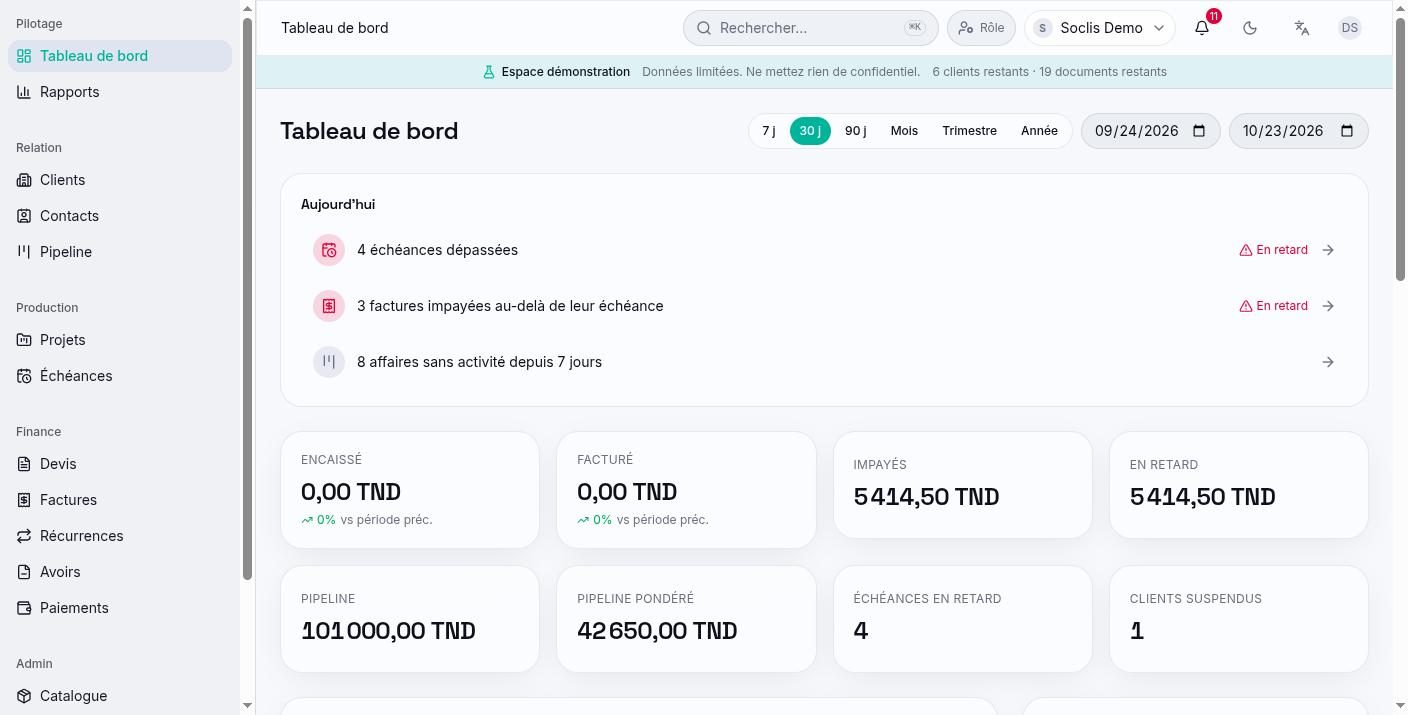
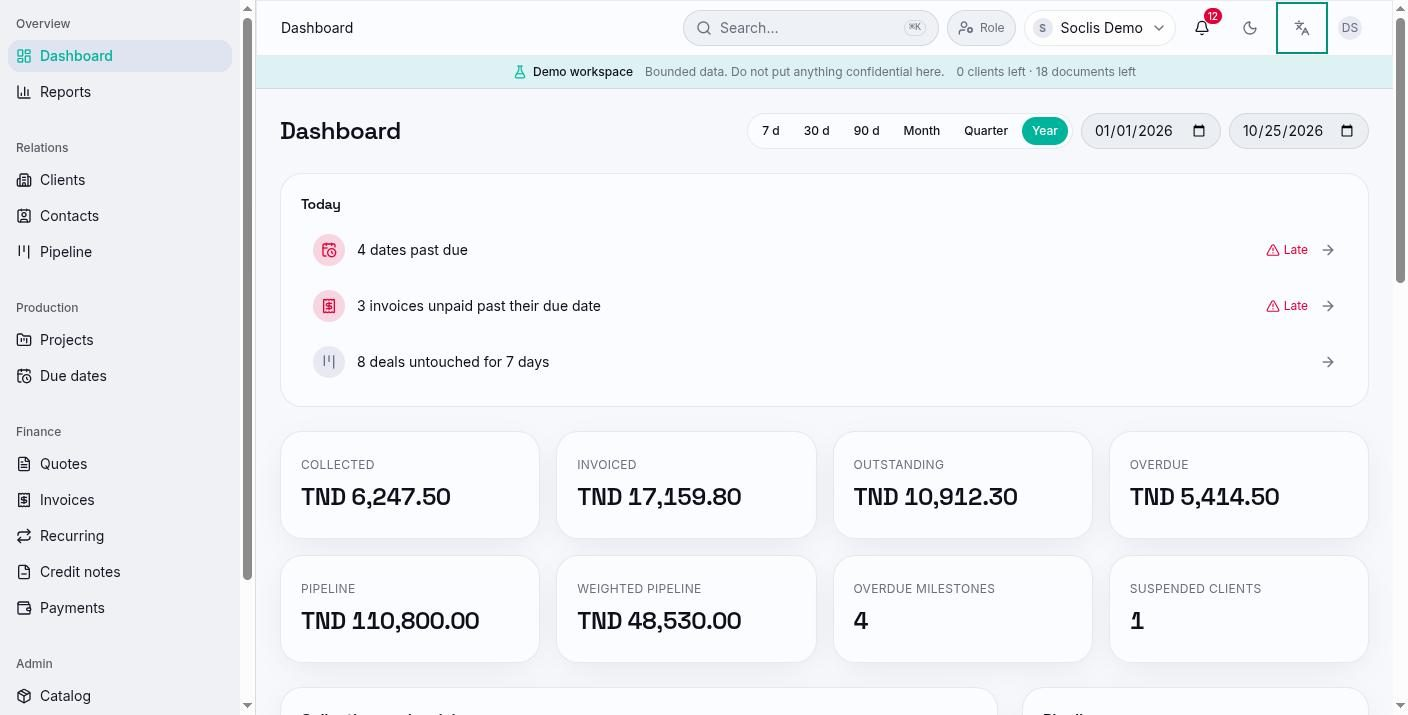
Deploy projects/soclis-crm

diff --git a/projects/soclis-crm/report/fr.html b/projects/soclis-crm/report/fr.html
@@ -62,7 +62,7 @@ figcaption { padding: 10px 14px; color: var(--muted); font-size: 14px; }
   <p class="tagline">Un CRM et outil de facturation pour les sociétés de services, qui suit chaque client du premier contact à la facture payée, en français, anglais et arabe.</p>
   <div class="facts"><div class="fact"><b>3</b><span>langues, dont l’arabe de droite à gauche</span></div><div class="fact"><b>6</b><span>rôles utilisateurs avec leurs propres droits</span></div><div class="fact"><b>3</b><span>offres : démo, starter et pro</span></div><div class="fact"><b>4</b><span>rapports détaillés avec export CSV</span></div></div>
   <nav class="toc"><h2>Sommaire</h2><ol><li><a href="#s1">En bref</a></li><li><a href="#s2">Pour qui</a></li><li><a href="#s3">Le problème résolu</a></li><li><a href="#s4">Fonctionnalités principales</a></li><li><a href="#s5">Fonctionnement</a></li><li><a href="#s6">Technologies</a></li><li><a href="#s7">Aperçu</a></li><li><a href="#s8">Ce que ça apporte</a></li></ol></nav>
-  <section class="text"><h2 id="s1">En bref</h2><p>SOCLIS CRM est une application web destinée aux sociétés de services : agences, intégrateurs, prestataires de maintenance. Elle réunit au même endroit les fiches clients, le pipeline commercial, les projets et échéances de maintenance, les devis, les factures, les avoirs et les paiements.</p><p>Plusieurs sociétés utilisent la même application, chacune avec ses données séparées. Une personne peut appartenir à plusieurs sociétés et y avoir un rôle différent. Les clients disposent de leur propre espace en lecture seule grâce à un lien sécurisé, sans créer de compte. L’interface fonctionne sur ordinateur et sur mobile, en français, anglais et arabe.</p></section><section><h2 id="s2">Pour qui</h2><div class="grid" style="--columns: 3"><div class="card"><h3>Dirigeants et administrateurs</h3><p>Renseignent l’identité de la société, la numérotation et les règles internes, invitent l’équipe et choisissent ce que chaque rôle peut faire.</p></div><div class="card"><h3>Équipes commerciales</h3><p>Gèrent leur propre portefeuille clients, suivent les opportunités sur un tableau de pipeline et préparent les devis.</p></div><div class="card"><h3>Équipes finance</h3><p>Émettent factures et avoirs, enregistrent les paiements, suivent les retards et consultent les rapports de chiffre d’affaires.</p></div><div class="card"><h3>Managers et lecteurs</h3><p>Suivent clients, projets et échéances, en lecture seule lorsque la facturation ne fait pas partie de leur travail.</p></div><div class="card"><h3>Clients finaux</h3><p>Ouvrent un lien personnel pour voir leur solde, télécharger factures et devis, et accepter ou refuser un devis en ligne.</p></div></div></section><section><h2 id="s3">Le problème résolu</h2><div class="grid" style="--columns: 2"><div class="card"><h3>Informations dispersées</h3><p>Coordonnées, devis, factures et paiements vivent souvent dans des tableurs et dossiers séparés. Ici, chaque client a une fiche unique qui relie l’ensemble.</p></div><div class="card"><h3>Échéances oubliées</h3><p>Contrats de maintenance et factures impayées s’oublient facilement. L’application suit les échéances, signale les retards et envoie des relances.</p></div><div class="card"><h3>Contrôle des accès</h3><p>Tout le monde n’a pas à voir les chiffres financiers. Chaque rôle ne voit et ne modifie que ce dont il a besoin, et chaque commercial peut être limité à ses propres clients.</p></div><div class="card"><h3>Langues et règles locales</h3><p>Équipes et clients travaillent en français, anglais ou arabe, et les documents reprennent les mentions locales : matricule fiscal, TVA, montants en dinars à trois décimales.</p></div></div></section><section><h2 id="s4">Fonctionnalités principales</h2><div class="list"><div class="card"><h3>Fiches clients</h3><p>Une page par client avec contacts, documents, projets, devis, factures, paiements, état de service et historique, ainsi qu’étiquettes, filtres enregistrés et import CSV.</p></div><div class="card"><h3>Pipeline commercial</h3><p>Un tableau d’opportunités par étape, en glisser-déposer, avec totaux et prévision pondérée, ainsi qu’une vue liste.</p></div><div class="card"><h3>Projets et maintenance</h3><p>Projets ponctuels ou contrats de maintenance avec budget, jalons et échéances récurrentes, en liste ou en calendrier mensuel.</p></div><div class="card"><h3>Devis</h3><p>Lignes issues d’un catalogue de services, remises et TVA, envoi par e-mail avec le PDF joint, et page en ligne où le client répond.</p></div><div class="card"><h3>Factures et avoirs</h3><p>Factures créées de zéro, depuis un devis accepté ou depuis un projet, factures récurrentes, et avoirs liés à la facture d’origine.</p></div><div class="card"><h3>Paiements</h3><p>Virement, chèque ou espèces, un paiement réparti sur plusieurs factures, et extourne avec motif en conservant l’historique.</p></div><div class="card"><h3>Espace client</h3><p>Un lien sécurisé, avec expiration et révocation, qui donne au client son solde, les consignes de règlement et ses documents à télécharger.</p></div><div class="card"><h3>Tableau de bord et rapports</h3><p>Un tableau de bord adapté au rôle, avec les priorités du jour et les chiffres clés, et des rapports sur le chiffre d’affaires, les clients, les projets et les échéances.</p></div><div class="card"><h3>Notifications et historique</h3><p>Alertes sur les échéances dépassées et les factures impayées, historique complet des modifications, corbeille avec annulation et recherche rapide par Ctrl+K.</p></div><div class="card"><h3>Offres et quotas</h3><p>Chaque société dispose d’une offre qui fixe des limites de clients, d’utilisateurs, de factures et de stockage, avec un espace de démonstration en un clic.</p></div></div></section><section><h2 id="s5">Fonctionnement</h2><div class="steps"><div class="step"><h3>Configurer la société</h3><p>Le propriétaire renseigne l’identité de la société et les paramètres de facturation, puis invite les membres de l’équipe avec un rôle.</p></div><div class="step"><h3>Ajouter clients et opportunités</h3><p>L’équipe crée ou importe ses clients et fait avancer chaque opportunité dans les étapes du pipeline.</p></div><div class="step"><h3>Chiffrer et obtenir une réponse</h3><p>Un devis est construit à partir du catalogue et envoyé au client, qui l’accepte ou le refuse depuis un lien.</p></div><div class="step"><h3>Réaliser et suivre</h3><p>Projets et échéances de maintenance sont suivis, avec des rappels avant et après chaque date.</p></div><div class="step"><h3>Facturer et encaisser</h3><p>La facture est créée depuis le devis ou le projet, envoyée en PDF dans la langue du client, puis les paiements y sont imputés.</p></div><div class="step"><h3>Analyser les résultats</h3><p>Les responsables consultent le tableau de bord et les rapports pour voir le chiffre d’affaires, les impayés et le travail à venir.</p></div></div></section><section><h2 id="s6">Technologies</h2><div class="tech-group"><h3>Interface</h3><div class="tech"><div><b>Next.js et React</b><span>Construisent l’application web, ses pages et les pages publiques destinées aux clients.</span></div><div><b>TypeScript</b><span>Utilisé côté interface et côté serveur pour un code cohérent et vérifié.</span></div><div><b>Tailwind CSS et Radix UI</b><span>Apportent le design visuel et des composants accessibles comme les menus et les fenêtres de dialogue.</span></div><div><b>TanStack Query et Zustand</b><span>Tiennent à jour à l’écran les données du serveur et conservent la session de l’utilisateur.</span></div><div><b>Recharts</b><span>Dessine les graphiques du tableau de bord.</span></div></div></div><div class="tech-group"><h3>Serveur et API</h3><div class="tech"><div><b>Node.js et Express</b><span>Servent l’API REST de l’application et appliquent les rôles, les périmètres de données et les quotas des offres.</span></div><div><b>Zod</b><span>Vérifie chaque formulaire et chaque requête pour n’enregistrer que des données valides.</span></div><div><b>node-cron</b><span>Lance les tâches quotidiennes : factures en retard, relances, échéances et factures récurrentes.</span></div><div><b>Nodemailer</b><span>Envoie par e-mail les invitations, les devis, les factures et les relances de paiement.</span></div></div></div><div class="tech-group"><h3>Données</h3><div class="tech"><div><b>MySQL</b><span>Stocke sociétés, clients, projets et documents de facturation, séparés par société.</span></div><div><b>Sequelize</b><span>Décrit le modèle de données et gère ses évolutions dans le temps.</span></div></div></div><div class="tech-group"><h3>Documents et langues</h3><div class="tech"><div><b>PDFKit</b><span>Génère devis, factures et avoirs en PDF, en français, anglais ou arabe.</span></div><div><b>next-intl</b><span>Traduit l’interface et passe à une mise en page de droite à gauche en arabe.</span></div></div></div><div class="tech-group"><h3>Qualité</h3><div class="tech"><div><b>Lanceur de tests Node</b><span>Exécute des tests unitaires et des tests sur base réelle pour les quotas, la facturation, les droits et la séparation des données.</span></div><div><b>ESLint</b><span>Contrôle le style du code et les erreurs courantes.</span></div></div></div></section><section><h2 id="s7">Aperçu</h2><div class="gallery" style="--columns: 2"><figure><img src="../screens/01.jpg" alt="Tableau de bord avec les priorités du jour et les chiffres clés." loading="lazy"><figcaption>Tableau de bord avec les priorités du jour et les chiffres clés.</figcaption></figure><figure><img src="../screens/03.jpg" alt="Tableau du pipeline commercial par étape." loading="lazy"><figcaption>Tableau du pipeline commercial par étape.</figcaption></figure><figure><img src="../screens/06.jpg" alt="Facture en retard avec reste à payer et actions de facturation." loading="lazy"><figcaption>Facture en retard avec reste à payer et actions de facturation.</figcaption></figure><figure><img src="../screens/05.jpg" alt="Espace client avec solde, factures et devis." loading="lazy"><figcaption>Espace client avec solde, factures et devis.</figcaption></figure></div></section><section><h2 id="s8">Ce que ça apporte</h2><div class="grid" style="--columns: 2"><div class="card"><h3>Un seul outil pour tout le cycle</h3><p>Du premier contact à la facture payée, chaque étape est rattachée à la même fiche client.</p></div><div class="card"><h3>Moins d’oublis</h3><p>Échéances dépassées, factures impayées et affaires inactives sont listées chaque jour sur le tableau de bord.</p></div><div class="card"><h3>Des responsabilités claires</h3><p>Chaque rôle travaille dans son périmètre, et chaque modification est conservée dans l’historique.</p></div><div class="card"><h3>Plus simple pour les clients</h3><p>Les clients répondent aux devis et retrouvent leurs documents en ligne, dans leur langue, sans créer de compte.</p></div></div></section>
+  <section class="text"><h2 id="s1">En bref</h2><p>SOCLIS CRM est une application web destinée aux sociétés de services : agences, intégrateurs, prestataires de maintenance. Elle réunit au même endroit les fiches clients, le pipeline commercial, les projets et échéances de maintenance, les devis, les factures, les avoirs et les paiements.</p><p>Plusieurs sociétés utilisent la même application, chacune avec ses données séparées. Une personne peut appartenir à plusieurs sociétés et y avoir un rôle différent. Les clients disposent de leur propre espace en lecture seule grâce à un lien sécurisé, sans créer de compte. L’interface fonctionne sur ordinateur et sur mobile, en français, anglais et arabe.</p></section><section><h2 id="s2">Pour qui</h2><div class="grid" style="--columns: 3"><div class="card"><h3>Dirigeants et administrateurs</h3><p>Renseignent l’identité de la société, la numérotation et les règles internes, invitent l’équipe et choisissent ce que chaque rôle peut faire.</p></div><div class="card"><h3>Équipes commerciales</h3><p>Gèrent leur propre portefeuille clients, suivent les opportunités sur un tableau de pipeline et préparent les devis.</p></div><div class="card"><h3>Équipes finance</h3><p>Émettent factures et avoirs, enregistrent les paiements, suivent les retards et consultent les rapports de chiffre d’affaires.</p></div><div class="card"><h3>Managers et lecteurs</h3><p>Suivent clients, projets et échéances, en lecture seule lorsque la facturation ne fait pas partie de leur travail.</p></div><div class="card"><h3>Clients finaux</h3><p>Ouvrent un lien personnel pour voir leur solde, télécharger factures et devis, et accepter ou refuser un devis en ligne.</p></div></div></section><section><h2 id="s3">Le problème résolu</h2><div class="grid" style="--columns: 2"><div class="card"><h3>Informations dispersées</h3><p>Coordonnées, devis, factures et paiements vivent souvent dans des tableurs et dossiers séparés. Ici, chaque client a une fiche unique qui relie l’ensemble.</p></div><div class="card"><h3>Échéances oubliées</h3><p>Contrats de maintenance et factures impayées s’oublient facilement. L’application suit les échéances, signale les retards et envoie des relances.</p></div><div class="card"><h3>Contrôle des accès</h3><p>Tout le monde n’a pas à voir les chiffres financiers. Chaque rôle ne voit et ne modifie que ce dont il a besoin, et chaque commercial peut être limité à ses propres clients.</p></div><div class="card"><h3>Langues et règles locales</h3><p>Équipes et clients travaillent en français, anglais ou arabe, et les documents reprennent les mentions locales : matricule fiscal, TVA, montants en dinars à trois décimales.</p></div></div></section><section><h2 id="s4">Fonctionnalités principales</h2><div class="list"><div class="card"><h3>Fiches clients</h3><p>Une page par client avec contacts, documents, projets, devis, factures, paiements, état de service et historique, ainsi qu’étiquettes, filtres enregistrés et import CSV.</p></div><div class="card"><h3>Pipeline commercial</h3><p>Un tableau d’opportunités par étape, en glisser-déposer, avec totaux et prévision pondérée, ainsi qu’une vue liste.</p></div><div class="card"><h3>Projets et maintenance</h3><p>Projets ponctuels ou contrats de maintenance avec budget, jalons et échéances récurrentes, en liste ou en calendrier mensuel.</p></div><div class="card"><h3>Devis</h3><p>Lignes issues d’un catalogue de services, remises et TVA, envoi par e-mail avec le PDF joint, et page en ligne où le client répond.</p></div><div class="card"><h3>Factures et avoirs</h3><p>Factures créées de zéro, depuis un devis accepté ou depuis un projet, factures récurrentes, et avoirs liés à la facture d’origine.</p></div><div class="card"><h3>Paiements</h3><p>Virement, chèque ou espèces, un paiement réparti sur plusieurs factures, et extourne avec motif en conservant l’historique.</p></div><div class="card"><h3>Espace client</h3><p>Un lien sécurisé, avec expiration et révocation, qui donne au client son solde, les consignes de règlement et ses documents à télécharger.</p></div><div class="card"><h3>Tableau de bord et rapports</h3><p>Un tableau de bord adapté au rôle, avec les priorités du jour et les chiffres clés, et des rapports sur le chiffre d’affaires, les clients, les projets et les échéances.</p></div><div class="card"><h3>Notifications et historique</h3><p>Alertes sur les échéances dépassées et les factures impayées, historique complet des modifications, corbeille avec annulation et recherche rapide par Ctrl+K.</p></div><div class="card"><h3>Offres et quotas</h3><p>Chaque société dispose d’une offre qui fixe des limites de clients, d’utilisateurs, de factures et de stockage, avec un espace de démonstration en un clic.</p></div></div></section><section><h2 id="s5">Fonctionnement</h2><div class="steps"><div class="step"><h3>Configurer la société</h3><p>Le propriétaire renseigne l’identité de la société et les paramètres de facturation, puis invite les membres de l’équipe avec un rôle.</p></div><div class="step"><h3>Ajouter clients et opportunités</h3><p>L’équipe crée ou importe ses clients et fait avancer chaque opportunité dans les étapes du pipeline.</p></div><div class="step"><h3>Chiffrer et obtenir une réponse</h3><p>Un devis est construit à partir du catalogue et envoyé au client, qui l’accepte ou le refuse depuis un lien.</p></div><div class="step"><h3>Réaliser et suivre</h3><p>Projets et échéances de maintenance sont suivis, avec des rappels avant et après chaque date.</p></div><div class="step"><h3>Facturer et encaisser</h3><p>La facture est créée depuis le devis ou le projet, envoyée en PDF dans la langue du client, puis les paiements y sont imputés.</p></div><div class="step"><h3>Analyser les résultats</h3><p>Les responsables consultent le tableau de bord et les rapports pour voir le chiffre d’affaires, les impayés et le travail à venir.</p></div></div></section><section><h2 id="s6">Technologies</h2><div class="tech-group"><h3>Interface</h3><div class="tech"><div><b>Next.js et React</b><span>Construisent l’application web, ses pages et les pages publiques destinées aux clients.</span></div><div><b>TypeScript</b><span>Utilisé côté interface et côté serveur pour un code cohérent et vérifié.</span></div><div><b>Tailwind CSS et Radix UI</b><span>Apportent le design visuel et des composants accessibles comme les menus et les fenêtres de dialogue.</span></div><div><b>TanStack Query et Zustand</b><span>Tiennent à jour à l’écran les données du serveur et conservent la session de l’utilisateur.</span></div><div><b>Recharts</b><span>Dessine les graphiques du tableau de bord.</span></div></div></div><div class="tech-group"><h3>Serveur et API</h3><div class="tech"><div><b>Node.js et Express</b><span>Servent l’API REST de l’application et appliquent les rôles, les périmètres de données et les quotas des offres.</span></div><div><b>Zod</b><span>Vérifie chaque formulaire et chaque requête pour n’enregistrer que des données valides.</span></div><div><b>node-cron</b><span>Lance les tâches quotidiennes : factures en retard, relances, échéances et factures récurrentes.</span></div><div><b>Nodemailer</b><span>Envoie par e-mail les invitations, les devis, les factures et les relances de paiement.</span></div></div></div><div class="tech-group"><h3>Données</h3><div class="tech"><div><b>MySQL</b><span>Stocke sociétés, clients, projets et documents de facturation, séparés par société.</span></div><div><b>Sequelize</b><span>Décrit le modèle de données et gère ses évolutions dans le temps.</span></div></div></div><div class="tech-group"><h3>Documents et langues</h3><div class="tech"><div><b>PDFKit</b><span>Génère devis, factures et avoirs en PDF, en français, anglais ou arabe.</span></div><div><b>next-intl</b><span>Traduit l’interface et passe à une mise en page de droite à gauche en arabe.</span></div></div></div><div class="tech-group"><h3>Qualité</h3><div class="tech"><div><b>Lanceur de tests Node</b><span>Exécute des tests unitaires et des tests sur base réelle pour les quotas, la facturation, les droits et la séparation des données.</span></div><div><b>ESLint</b><span>Contrôle le style du code et les erreurs courantes.</span></div></div></div></section><section><h2 id="s7">Aperçu</h2><div class="gallery" style="--columns: 2"><figure><img src="../screens/01-fr.jpg" alt="Tableau de bord avec les priorités du jour et les chiffres clés." loading="lazy"><figcaption>Tableau de bord avec les priorités du jour et les chiffres clés.</figcaption></figure><figure><img src="../screens/03.jpg" alt="Tableau du pipeline commercial par étape." loading="lazy"><figcaption>Tableau du pipeline commercial par étape.</figcaption></figure><figure><img src="../screens/06-fr.jpg" alt="Facture en retard avec reste à payer et actions de facturation." loading="lazy"><figcaption>Facture en retard avec reste à payer et actions de facturation.</figcaption></figure><figure><img src="../screens/05.jpg" alt="Espace client avec solde, factures et devis." loading="lazy"><figcaption>Espace client avec solde, factures et devis.</figcaption></figure></div></section><section><h2 id="s8">Ce que ça apporte</h2><div class="grid" style="--columns: 2"><div class="card"><h3>Un seul outil pour tout le cycle</h3><p>Du premier contact à la facture payée, chaque étape est rattachée à la même fiche client.</p></div><div class="card"><h3>Moins d’oublis</h3><p>Échéances dépassées, factures impayées et affaires inactives sont listées chaque jour sur le tableau de bord.</p></div><div class="card"><h3>Des responsabilités claires</h3><p>Chaque rôle travaille dans son périmètre, et chaque modification est conservée dans l’historique.</p></div><div class="card"><h3>Plus simple pour les clients</h3><p>Les clients répondent aux devis et retrouvent leurs documents en ligne, dans leur langue, sans créer de compte.</p></div></div></section>
 </main>
 </body>
 </html>
